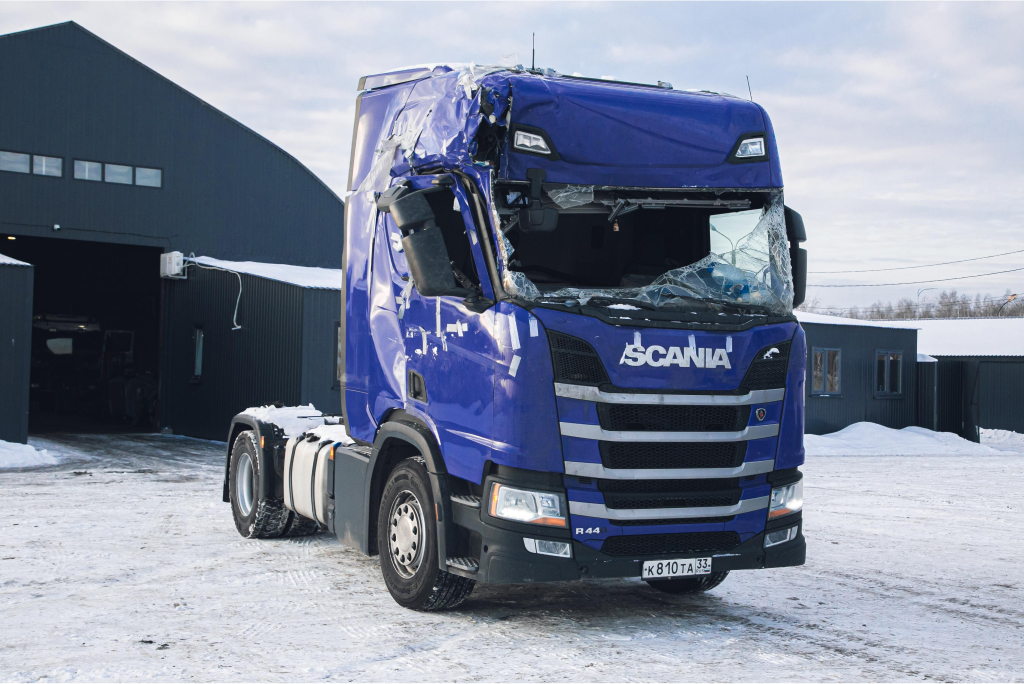
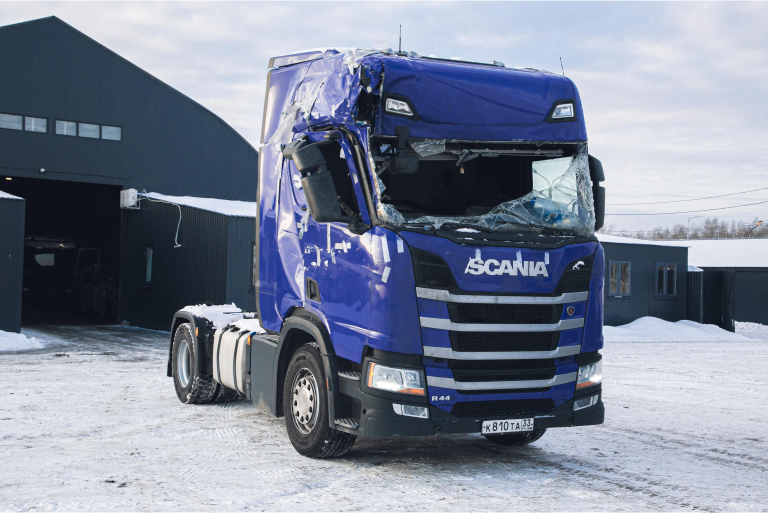
resize images before-after

Changed region(s): [[0.625, 0.8109, 0.6875, 0.8421]]

diff --git a/before-after/before_after.css b/before-after/before_after.css
@@ -91,6 +91,7 @@ ul.breadcrumb li a:hover {
     border-radius: 20px;
     cursor: pointer;
 }
+
 @media (max-width: 800px) {
     .before_after__images_wrapper {
         flex-direction: column;
@@ -102,10 +103,9 @@ ul.breadcrumb li a:hover {
         width: 100%;
     }
     .before_after__arrow {
-        margin-top: 10px;
-        margin-bottom: 60px;
         transform: rotate(90deg);
         width: 24px;
+        margin: 10px 0px 40px 0px;
     }
     .before_after__modal_img {
         width: 90%;
